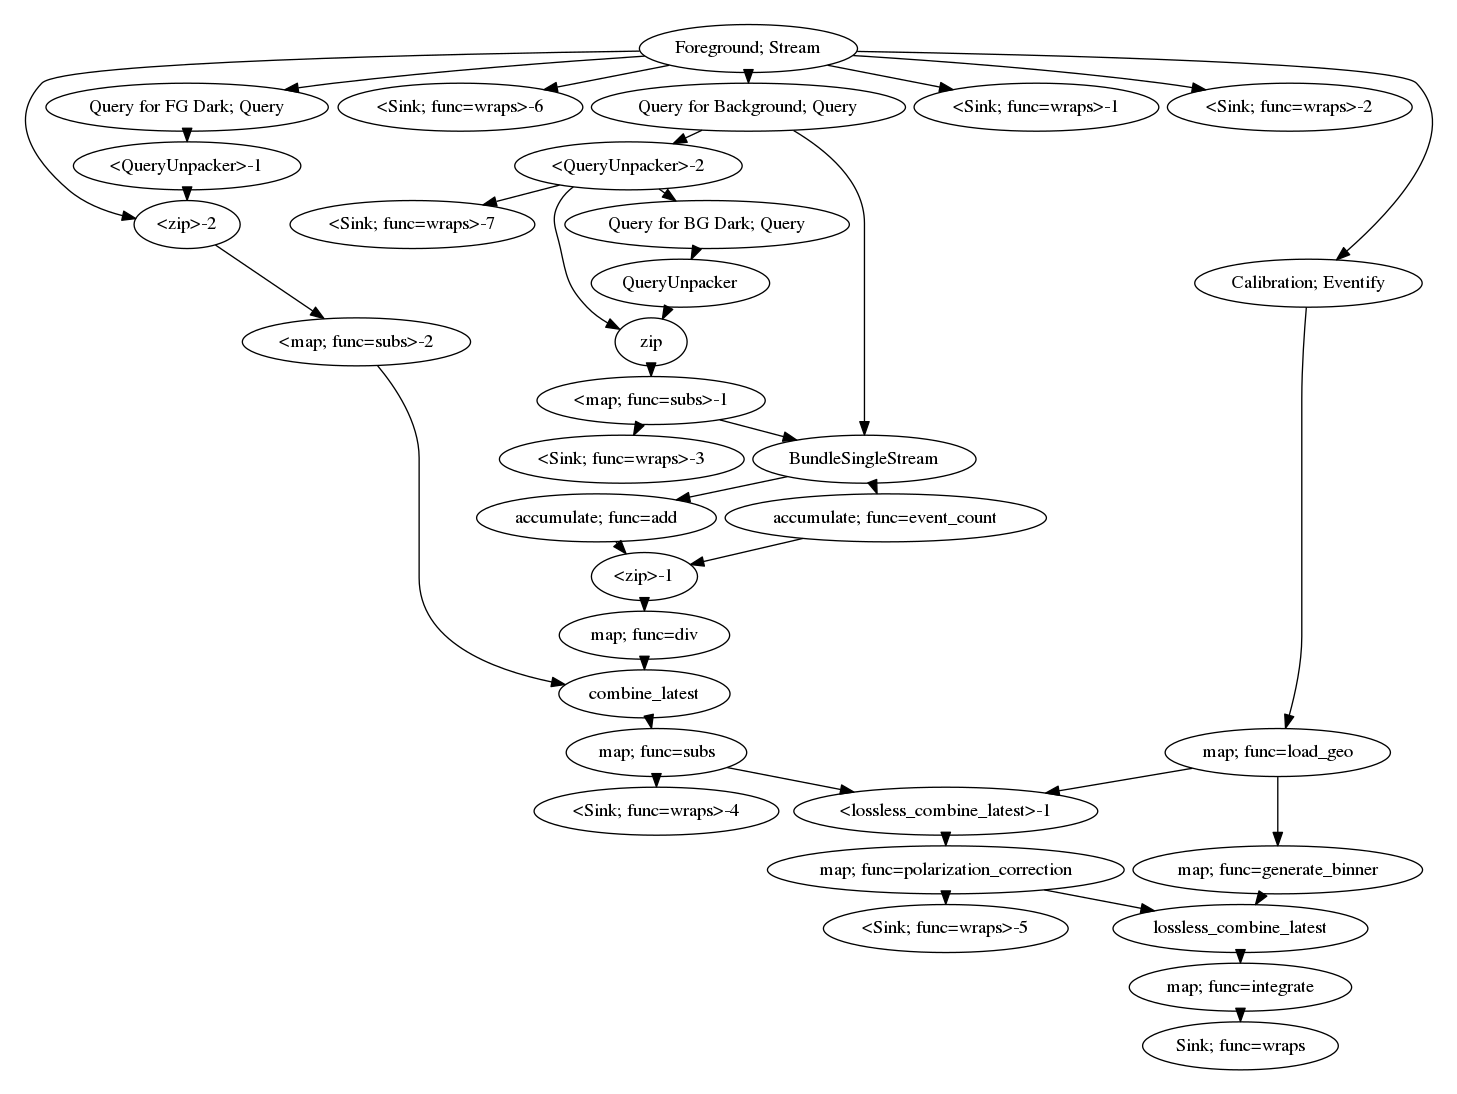
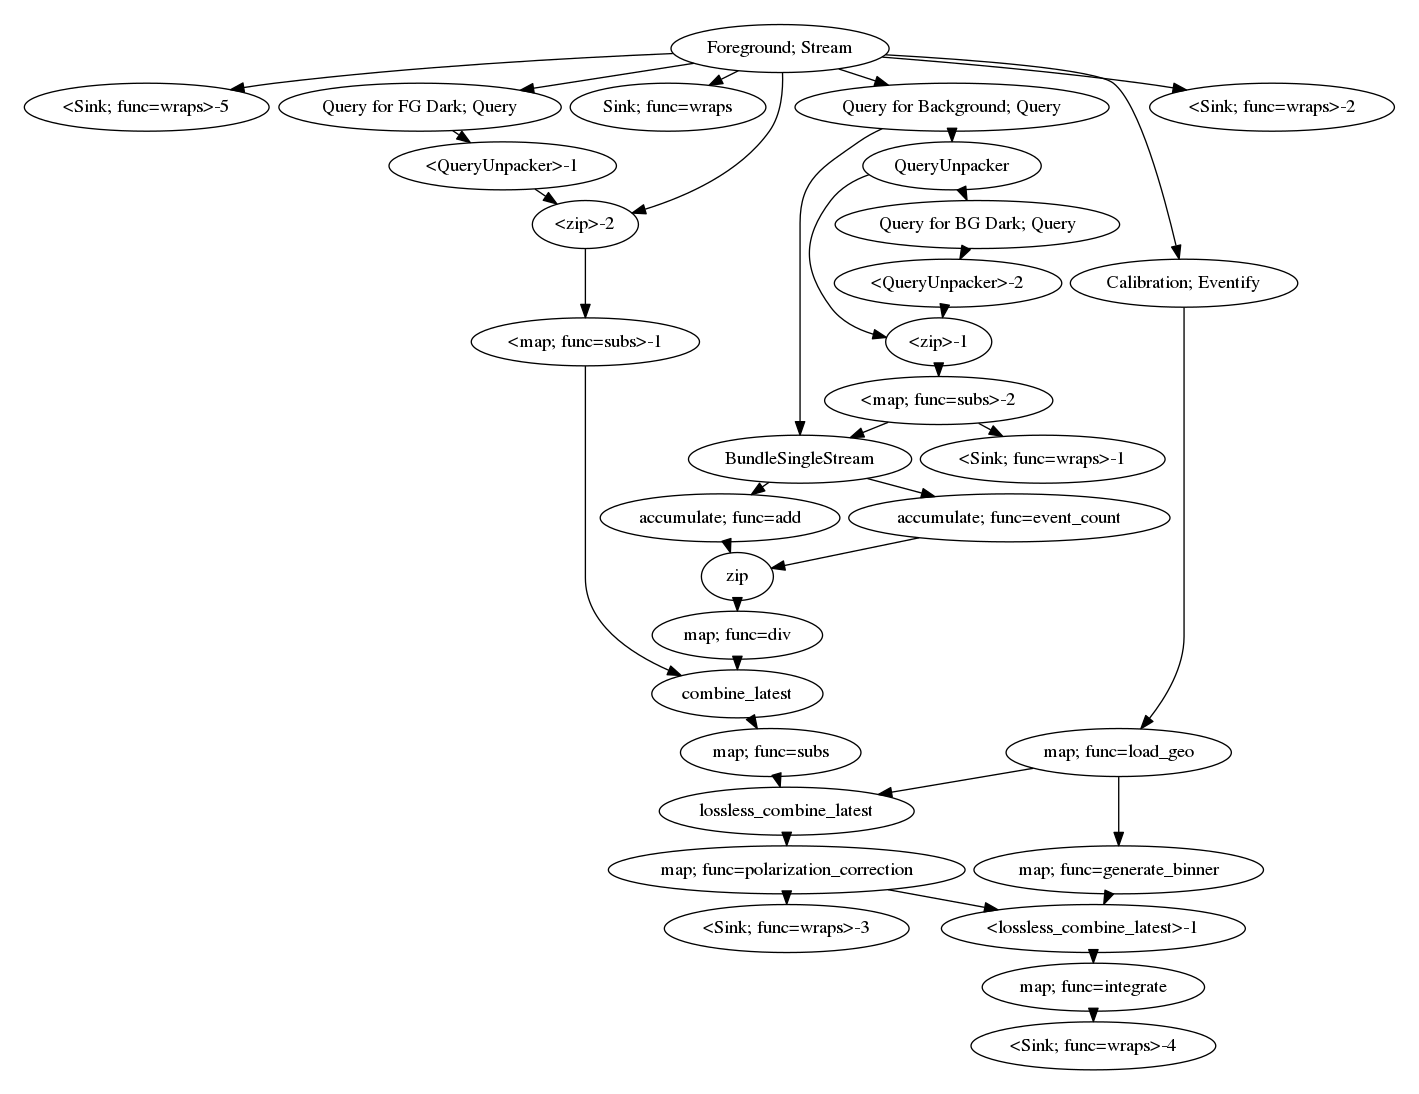
WIP: don't crash mpl

diff --git a/examples/xpd_alpha_workflow.py b/examples/xpd_alpha_workflow.py
@@ -174,7 +174,7 @@ bg_query_stream = es.Query(db, source,
                            name='Query for Background')
 
 bg_stream = es.QueryUnpacker(db, bg_query_stream)
-bg_stream.sink(star(live_image_factory(window_title='Raw Background')))
+# bg_stream.sink(star(live_image_factory(window_title='Raw Background')))
 bg_dark_stream = es.QueryUnpacker(db, es.Query(db, bg_stream,
                                                query_function=query_dark,
                                                query_decider=temporal_prox,
@@ -254,11 +254,11 @@ fg_sub_bg = es.map(dstar(subs),
                    # name='Background Corrected Foreground'
                    )
 
-fg_sub_bg.sink(star(LiveImage('img',
-                                limit_func=lambda x: (
-                                np.max(x) * .1, np.max(x) * .01),
-                                cmap='viridis',
-                                window_title='Background Corrected Foreground')))
+# fg_sub_bg.sink(star(LiveImage('img',
+#                                 limit_func=lambda x: (
+#                                 np.max(x) * .1, np.max(x) * .01),
+#                                 cmap='viridis',
+#                                 window_title='Background Corrected Foreground')))
 # fg_sub_bg.sink(SinkToDB)
 # fg_sub_bg.sink(pprint)
 
